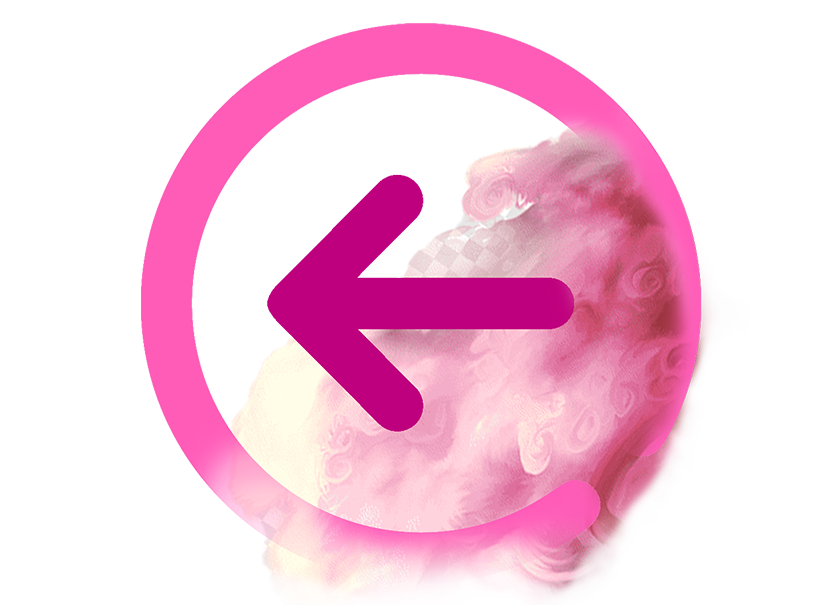
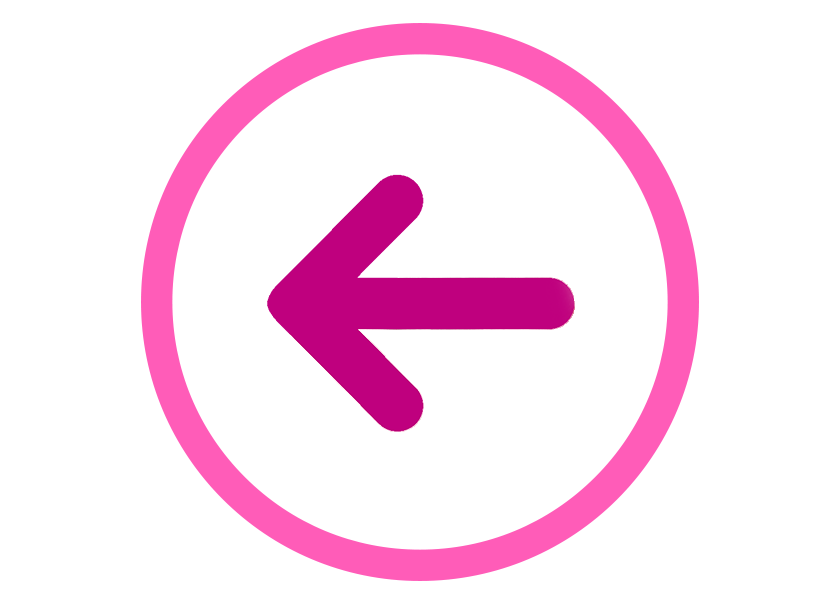
reemplazando íconos

Changed region(s): [[0.1857, 0.0893, 0.8667, 0.9818]]

diff --git a/pag3.html b/pag3.html
@@ -9,7 +9,7 @@
 </head>
 <body>
     <div class="Marca1">
-        <img src="./bakey1.jpg" alt="bakery">
+        <!-- <img src="./bakey1.jpg" alt="bakery"> -->
     </div>
     <div class="contenedor2">
         

diff --git a/estilos3.css b/estilos3.css
@@ -13,7 +13,7 @@ display: flex;
 flex-direction: column; */
 flex-flow: column wrap;
 justify-content: center;
-height: 200px;
+height: 550px;
 width: 100%;
 }
 .Marca1 img{
